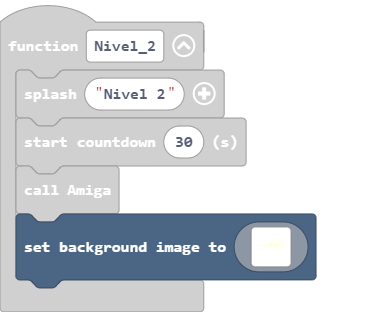
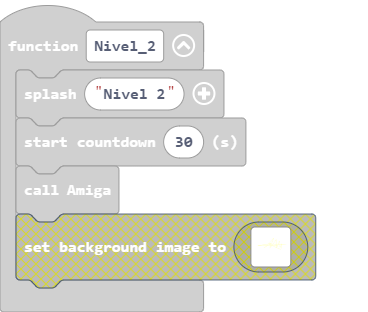
Update main.blocks, main.ts

diff --git a/main.ts b/main.ts
@@ -105,128 +105,6 @@ function Nivel_2 () {
     game.splash("Nivel 2")
     info.startCountdown(30)
     Amiga()
-    scene.setBackgroundImage(img`
-        . . . . . . . . . . . . . . . . . . . . . . . . . . . . . . . . . . . . . . . . . . . . . . . . . . . . . . . . . . . . . . . . . . . . . . . . . . . . . . . . . . . . . . . . . . . . . . . . . . . . . . . . . . . . . . . . . . . . . . . . . . . . . . . . . . . . . . . . . . . . . . . . . . . . . . . . . . . . . . . . 
-        . . . . . . . . . . . . . . . . . . . . . . . . . . . . . . . . . . . . . . . . . . . . . . . . . . . . . . . . . . . . . . . . . . . . . . . . . . . . . . . . . . . . . . . . . . . . . . . . . . . . . . . . . . . . . . . . . . . . . . . . . . . . . . . . . . . . . . . . . . . . . . . . . . . . . . . . . . . . . . . . 
-        . . . . . . . . . . . . . . . . . . . . . . . . . . . . . . . . . . . . . . . . . . . . . . . . . . . . . . . . . . . . . . . . . . . . . . . . . . . . . . . . . . . . . . . . . . . . . . . . . . . . . . . . . . . . . . . . . . . . . . . . . . . . . . . . . . . . . . . . . . . . . . . . . . . . . . . . . . . . . . . . 
-        . . . . . . . . . . . . . . . . . . . . . . . . . . . . . . . . . . . . . . . . . . . . . . . . . . . . . . . . . . . . . . . . . . . . . . . . . . . . . . . . . . . . . . . . . . . . . . . . . . . . . . . . . . . . . . . . . . . . . . . . . . . . . . . . . . . . . . . . . . . . . . . . . . . . . . . . . . . . . . . . 
-        . . . . . . . . . . . . . . . . . . . . . . . . . . . . . . . . . . . . . . . . . . . . . . . . . . . . . . . . . . . . . . . . . . . . . . . . . . . . . . . . . . . . . . . . . . . . . . . . . . . . . . . . . . . . . . . . . . . . . . . . . . . . . . . . . . . . . . . . . . . . . . . . . . . . . . . . . . . . . . . . 
-        . . . . . . . . . . . . . . . . . . . . . . . . . . . . . . . . . . . . . . . . . . . . . . . . . . . . . . . . . . . . . . . . . . . . . . . . . . . . . . . . . . . . . . . . . . . . . . . . . . . . . . . . . . . . . . . . . . . . . . . . . . . . . . . . . . . . . . . . . . . . . . . . . . . . . . . . . . . . . . . . 
-        . . . . . . . . . . . . . . . . . . . . . . . . . . . . . . . . . . . . . . . . . . . . . . . . . . . . . . . . . . . . . . . . . . . . . . . . . . . . . . . . . . . . . . . . . . . . . . . . . . . . . . . . . . . . . . . . . . . . . . . . . . . . . . . . . . . . . . . . . . . . . . . . . . . . . . . . . . . . . . . . 
-        . . . . . . . . . . . . . . . . . . . . . . . . . . . . . . . . . . . . . . . . . . . . . . . . . . . . . . . . . . . . . . . . . . . . . . . . . . . . . . . . . . . . . . . . . . . . . . . . . . . . . . . . . . . . . . . . . . . . . . . . . . . . . . . . . . . . . . . . . . . . . . . . . . . . . . . . . . . . . . . . 
-        . . . . . . . . . . . . . . . . . . . . . . . . . . . . . . . . . . . . . . . . . . . . . . . . . . . . . . . . . . . . . . . . . . . . . . . . . . . . . . . . . . . . . . . . . . . . . . . . . . . . . . . . . . . . . . . . . . . . . . . . . . . . . . . . . . . . . . . . . . . . . . . . . . . . . . . . . . . . . . . . 
-        . . . . . . . . . . . . . . . . . . . . . . . . . . . . . . . . . . . . . . . . . . . . . . . . . . . . . . . . . . . . . . . . . . . . . . . . . . . . . . . . . . . . . . . . . . . . . . . . . . . . . . . . . . . . . . . . . . . . . . . . . . . . . . . . . . . . . . . . . . . . . . . . . . . . . . . . . . . . . . . . 
-        . . . . . . . . . . . . . . . . . . . . . . . . . . . . . . . . . . . . . . . . . . . . . . . . . . . . . . . . . . . . . . . . . . . . . . . . . . . . . . . . . . . . . . . . . . . . . . . . . . . . . . . . . . . . . . . . . . . . . . . . . . . . . . . . . . . . . . . . . . . . . . . . . . . . . . . . . . . . . . . . 
-        . . . . . . . . . . . . . . . . . . . . . . . . . . . . . . . . . . . . . . . . . . . . . . . . . . . . . . . . . . . . . . . . . . . . . . . . . . . . . . . . . . . . . . . . . . . . . . . . . . . . . . . . . . . . . . . . . . . . . . . . . . . . . . . . . . . . . . . . . . . . . . . . . . . . . . . . . . . . . . . . 
-        . . . . . . . . . . . . . . . . . . . . . . . . . . . . . . . . . . . . . . . . . . . . . . . . . . . . . . . . . . . . . . . . . . . . . . . . . . . . . . . . . . . . . . . . . . . . . . . . . . . . . . . . . . . . . . . . . . . . . . . . . . . . . . . . . . . . . . . . . . . . . . . . . . . . . . . . . . . . . . . . 
-        . . . . . . . . . . . . . . . . . . . . . . . . . . . . . . . . . . . . . . . . . . . . . . . . . . . . . . . . . . . . . . . . . . . . . . . . . . . . . . . . . . . . . . . . . . . . . . . . . . . . . . . . . . . . . . . . . . . . . . . . . . . . . . . . . . . . . . . . . . . . . . . . . . . . . . . . . . . . . . . . 
-        . . . . . . . . . . . . . . . . . . . . . . . . . . . . . . . . . . . . . . . . . . . . . . . . . . . . . . . . . . . . . . . . . . . . . . . . . . . . . . . . . . . . . . . . . . . . . . . . . . . . . . . . . . . . . . . . . . . . . . . . . . . . . . . . . . . . . . . . . . . . . . . . . . . . . . . . . . . . . . . . 
-        . . . . . . . . . . . . . . . . . . . . . . . . . . . . . . . . . . . . . . . . . . . . . . . . . . . . . . . . . . . . . . . . . . . . . . . . . . . . . . . . . . . . . . . . . . . . . . 5 . . . . . . . . . . . . . . . . . . . . . . . . . . . . . . . . . . . . . . . . . . . . . . . . . . . . . . . . . . . . . . . . . 
-        . . . . . . . . . . . . . . . . . . . . . . . . . . . . . . . . . . . . . . . . . . . . . . . . . . . . . . . . . . . . . . . . . . . . . . . . . . . . . . . . . . . . . . . . . . . . . 5 5 . . . . . . . . . . . . . . . . . . . . . . . . . . . . . . . . . . . . . . . . . . . . . . . . . . . . . . . . . . . . . . . . . 
-        . . . . . . . . . . . . . . . . . . . . . . . . . . . . . . . . . . . . . . . . . . . . . . . . . . . . . . . . . . . . . . . . . . . . . . . . . . . . . . . . . . . . . . . . . . . . 5 . 5 . . . . . . . . . . . . . . . . . . . . . . . . . . . . . . . . . . . . . . . . . . . . . . . . . . . . . . . . . . . . . . . . . 
-        . . . . . . . . . . . . . . . . . . . . . . . . . . . . . . . . . . . . . . . . . . . . . . . . . . . . . . . . . . . . . . . . . . . . . . . . . . . . . . . . . . . . . . . . . . . 5 . 5 . . . . . . . . . . . . . . . . . . . . . . . . . . . . . . . . . . . . . . . . . . . . . . . . . . . . . . . . . . . . . . . . . . 
-        . . . . . . . . . . . . . . . . . . . . . . . . . . . . . . . . . . . . . . . . . . . . . . . . . . . . . . . . . . . . . . . . . . . . . . . . . . . . . . . . . . . . . . . . . . 5 . . 5 . . . . . . . . . . . . . . . . . . . . . . . . . . . . . . . . . . . . . . . . . . . . . . . . . . . . . . . . . . . . . . . . . . 
-        . . . . . . . . . . . . . . . . . . . . . . . . . . . . . . . . . . . . . . . . . . . . . . . . . . . . . . . . . . . . . . . . . . . . . . . . . . . . . . . . . . . . . . . . . 5 . . 5 . . . . . . . . . . . . . . . . . . . . . . . . . . . . . . . . . . . . . . . . . . . . . . . . . . . . . . . . . . . . . . . . . . . 
-        . . . . . . . . . . . . . . . . . . . . . . . . . . . . . . . . . . . . . . . . . . . . . . . . . . . . . . . . . . . . . . . . . . . . . . . . . . . . . . . . . . . . . . . . 5 . . 5 . . . . . . . . . . . . . . . . . . . . . . . . . . . . . . . . . . . . . . . . . . . . . . . . . . . . . . . . . . . . . . . . . . . . 
-        . . . . . . . . . . . . . . . . . . . . . . . . . . . . . . . . . . . . . . . . . . . . . . . . . . . . . . . . . . . . . . . . . . . . . . . . . . . . . . . . . . . . . . . . 5 . . 5 . . . . . . . . . . . . . . 5 . . . . . . . . . . . . . . . . . . . . . . . . . . . . . . . . . . . . . . . . . . . . . . . . . . . . . 
-        . . . . . . . . . . . . . . . . . . . . . . . . . . . . . . . . . . . . . . . . . . . . . . . . . . . . . . . . . . . . . . . . . . . . . . . . . . . . . . . . . . . . . . . 5 . . 5 . . . . . . . . . . . . . . 5 5 . . . . . . . . . . . . . . . . . . . . . . . . . . . . . . . . . . . . . . . . . . . . . . . . . . . . . 
-        . . . . . . . . . . . . . . . . . . . . . . . . . . . . . . . . . . . . . . . . . . . . . . . . . . . . . . . . . . . . . . . . . . . . . . . . . . . . . . . . . . . . . . 5 . . . 5 . . . . . . . . . . . . . 5 . 5 . . . . . . . . . . . . . . . . . . . . . . . . . . . . . . . . . . . . . . . . . . . . . . . . . . . . . 
-        . . . . . . . . . . . . . . . . . . . . . . . . . . . . . . . . . . . . . . . . . . . . . . . . . . . . . . . . . . . . . . . . . . . . . . . . . . . . . . . . . . . . . 5 . . . . 5 . . . . . . . . . . . . . 5 . 5 . . . . . . . . . . . . . . . . . . . . . . . . . . . . . . . . . . . . . . . . . . . . . . . . . . . . . 
-        . . . . . . . . . . . . . . . . . . . . . . . . . . . . . . . . . . . . . . . . . . . . . . . . . . . . . . . . . . . . . . . . . . . . . . . . . . . . . . . . . . . . . 5 . . . 5 . . . . . . . . . . . . . 5 . . 5 . . . . . . . . . . . . . . . . . . . . . . . . . . . . . . . . . . . . . . . . . . . . . . . . . . . . . 
-        . . . . . . . . . . . . . . . . . . . . . . . . . . . . . . . . . . . . . . . . . . . . . . . . . . . . . . . . . . . . . . . . . . . . . . . . . . . . . . . . . . . . 5 . . . . 5 . . . . . . . . . . . . 5 . . . 5 . . . . . . . . . . . . . . . . . . . . . . . . . . . . . . . . . . . . . . . . . . . . . . . . . . . . . 
-        . . . . . . . . . . . . . . . . . . . . . . . . . . . . . . . . . . . . . . . . . . . . . . . . . . . . . . . . . . . . . . . . . . . . . . . . . . . . . . . . . . . 5 . . . . 5 . . . . . . . . . . . . . 5 . . . 5 . . . . . . . . . . . . . . . . . . . . . . . . . . . . . . . . . . . . . . . . . . . . . . . . . . . . . 
-        . . . . . . . . . . . . . . . . . . . . . . . . . . . . . . . . . . . . . . . . . . . . . . . . . . . . . . . . . . . . . . . . . . . . . . . . . . . . . . . . . . 5 . . . . . 5 . . . . . . . . . . . . 5 . . . . 5 . . . . . . . . . . . . . . . . . . . . . . . . . . . . . . . . . . . . . . . . . . . . . . . . . . . . . 
-        . . . . . . . . . . . . . . . . . . . . . . . . . . . . . . . . . . . . . . . . . . . . . . . . . . . . . . . . . . . . . . . . . . . . . . . . . . . . . . . . . 5 . . . . . . 5 . . . . . . . . . . . 5 . . . . . 5 . . . . . . . . . . . . . . . . . . . . . . . . . . . . . . . . . . . . . . . . . . . . . . . . . . . . . 
-        . . . . . . . . . . . . . . . . . . . . . . . . . . . . . . . . . . . . . . . . . . . . . . . . . . . . . . . . . . . . . . . . . . . . . . . . . . . . . . . . 5 . . . . . . 5 . . . . . . . . . . . . 5 . . . . . 5 . . . . . . . . . . . . . . . . 5 . . . . . . . . . . . . . . . . . . . . . . . . . . . . . . . . . . . . 
-        . . . . . . . . . . . . . . . . . . . . . . . . . . . . . . . . . . . . . . . . . . . . . . . . . . . . . . . . . . . . . . . . . . . . . . . . . . . . . . . 5 . . . . . . . 5 . . . . . . . . . . . 5 . . . . . . 5 . . . . . . . . . . . . . . . 5 5 . . . . . . . . . . . . . . . . . . . . . . . . . . . . . . . . . . . . 
-        . . . . . . . . . . . . . . . . . . . . . . . . . . . . . . . . . . . . . . . . . . . . . . . . . . . . . . . . . . . . . . . . . . . . . . . . . . . . . . 5 . . . . . . . 5 . . . . . . . . . . . 5 . . . . . . . 5 . . . . . . . . . . . . . . 5 . 5 . . . . . . . . . . . . . . . . . . . . . . . . . . . . . . . . . . . . 
-        . . . . . . . . . . . . . . . . . . . . . . . . . . . . . . . . . . . . . . . . . . . . . . . . . . . . . . . . . . . . . . . . . . . . . . . . . . . . . 5 . . . . . . . . 5 . . . . . . . . . . 5 . . . . . . . . 5 . . . . . . . . . . . . . . 5 . 5 . . . . . . . . . . . . . . . . . . . . . . . . . . . . . . . . . . . . 
-        . . . . . . . . . . . . . . . . . . . . . . . . . . . . . . . . . . . . . . . . . . . . . . . . . . . . . . . . . . . . . . . . . . . . . . . . . . . . 5 . . . . . . . . 5 . . . . . . . . . . . 5 . . . . . . . . 5 . . . . . . . . . . . . . 5 . . 5 . . . . . . . . . . . . . . . . . . . . . . . . . . . . . . . . . . . . 
-        . . . . . . . . . . . . . . . . . . . . . . . . . . . . . . . . . . . . . . . . . . . . . . . . . . . . . . . . . . . . . . . . . . . . . . . . . . . 5 . . . . . . . . . 5 . . . . . . . . . . 5 . . . . . . . . . 5 . . . . . . . . . . . . . 5 . . 5 . . . . . . . . . . . . . . . . . . . . . . . . . . . . . . . . . . . . 
-        . . . . . . . . . . . . . . . . . . . . . . . . . . . . . . . . . . . . . . . . . . . . . . . . . . . . . . . . . . . . . . . . . . . . . . . . . . 5 . . . . . . . . . 5 . . . . . . . . . . 5 . . . . . . . . . . 5 . . . . . . . . . . . . 5 . . . 5 . . . . . . . . . . . . . . . . . . . . . . . . . . . . . . . . . . . . 
-        . . . . . . . . . . . . . . . . . . . . . . . . . . . . . . . . . . . . . . . . . . . . . . . . . . . . . . . . . . . . . . . . . . . . . . . . . 5 . . . . . . . . . . 5 . . . . . . . . . . 5 . . . . . . . . . . 5 . . . . . . . . . . . . 5 . . . 5 . . . . . . . . . . . . . . . . . . . . . . . . . . . . . . . . . . . . 
-        . . . . . . . . . . . . . . . . . . . . . . . . . . . . . . . . . . . . . . . . . . . . . . . . . . . . . . . . . . . . . . . . . . . . . . . . 5 . . . . . . . . . . . 5 . . . . . . . . . 5 . . . . . . . . . . . 5 . . . . . . . . . . . . 5 . . . . 5 . . . . . . . . . . . . . . . . . . . . . . . . . . . . . . . . . . . 
-        . . . . . . . . . . . . . . . . . . . . . . . . . . . . . . . . . . . . . . . . . . . . . . . . . . . . . . . . . . . . . . . . . . . . . . . 5 . . . . . . 5 5 . . . 5 . . . . . . . . . 5 . . . . . . . . . . . . 5 . . . . . . . . . . . 5 . . . . . 5 . . . . . . . . . . . . . . . . . . . . . . . . . . . . . . . . . . . 
-        . . . . . . . . . . . . . . . . . . . . . . . . . . . . . . . . . . . . . . . . . . . . . . . . . . . . . . . . . . . . . . . . . . . . . . 5 . . . . 5 5 5 5 . . . . 5 . . . . . . . . 5 . . . . . . . . . . . . . 5 . . . . . . . . . . . 5 . . . . . 5 . . . . . . . . . . . . . . . . . . . . . . . . . . . . . . . . . . . 
-        . . . . . . . . . . . . . . . . . . . . . . . . . . . . . . . . . . . . . . . . . . . . . . . . . . . . . . . . . . . . . . . . . . . . . 5 . . 5 5 5 . . 5 . . . . 5 . . . . . . . . . 5 . . . . . . . . . . . . . 5 . . . . . . . . . . 5 . . . . . . 5 . . . . . . . . . . . . . . . . . . . . . . . . . . . . . . . . . . . 
-        . . . . . . . . . . . . . . . . . . . . . . . . . . . . . . . . . . . . . . . . . . . . . . . . . . . . . . . . . . . . . . . . . . . . 5 5 5 5 . . . . 5 . . . . . 5 . . . . . . . . 5 . . . . . . . . . . . . . . 5 . . . . . . . . . . 5 . . . . . . 5 . . . . . . . 5 . . . . . . . . . . . . . . . . . . . . . . . . . . . 
-        . . . . . . . . . . . . . . . . . . . . . . . . . . . . . . . . . . . . . . . . . . . . . . . . . . . . . . . . . . . . . . . . . 5 5 5 5 . . . . . . 5 . . . . . 5 . . . . . . . . 5 . . . . . . . . . . . . . . . 5 . . . . . . . . . . 5 . . . . . . 5 . . . . . . . 5 . . . . . . . . . . . . . . . . . . . . . . . . . . . 
-        . . . . . . . . . . . . . . . . . . . . . . . . . . . . . . . . . . . . . . . . . . . . . . . . . . . . . . . . . . . 5 5 5 5 5 5 . 5 . . . 5 5 5 5 5 5 5 5 5 5 5 5 5 5 5 5 5 5 5 5 5 5 5 5 5 5 5 5 5 . . . . . . . 5 . . . . . . . . . 5 . . . . . . . 5 . . . . . . 5 5 . . . . . . . . . . . . . . . . . . . . . . . . . . . 
-        . . . . . . . . . . . . . . . . . . . . . . . . . . . . . . . . . . . . . . . . . . . . . . . . . . . . . 5 5 5 5 5 5 . . . . . . 5 . . . . . . 5 5 . . . . . . . 5 . . . . . . . 5 . . . . . . . . . 5 5 5 5 5 5 5 5 5 5 5 5 5 5 5 5 5 5 5 5 5 5 5 5 5 5 5 5 5 5 . . 5 5 . . . . . . . . . . . . . . . . . . . . . . . . . . . 
-        . . . . . . . . . . . . . . . . . . . . . . . . . . . . . . . . . . . . . . . . . . . . . . . 5 5 5 5 5 5 . . . . . . . . . . . 5 . . . . . 5 5 . . 5 5 . . . . 5 . . . . . . . 5 . . . . . . . . . . . . . . . . . 5 . . . . . . . . . 5 . . . . . . . 5 . . . . 5 5 5 5 5 5 5 5 5 5 5 5 5 5 5 . . . . . . . . . . . . . . . . 
-        . . . . . . . . . . . . . . . . . . . . . . . . . . . . . . . . . . . . . . . . . 5 5 5 5 5 5 . . . . . . . . . . . . . . . . 5 . . . . 5 5 . . . . . . 5 5 5 . 5 . . . . . . . 5 . . . . . . . . . . . . . . . . . 5 . . . . . . . . 5 . . . . . . . . 5 . . . . . 5 . 5 . . . . . . . . . . . 5 5 5 5 5 5 5 5 . . . . . . . . 
-        . . . . . . . . . . . . . . . . . . . . . . . . . . . . . . . . . . . 5 5 5 5 5 5 . . . . . . . . . . . . . . . . . . . . . 5 . . . . 5 . . . . . . . . . . . 5 5 . . . . . . 5 . . . . . . . . . . . . . . . . . . . 5 . . . . . . . 5 . . . . . . . . 5 . . . . . 5 . 5 . . . . . . . . . . . . . . . . . . . 5 5 5 5 5 . . . 
-        . . . . . . . . . . . . . . . . . . . . . . . . . . . . . 5 5 5 5 5 5 . . . . . . . . . . . . . . . . . . . . . . . . . . 5 . . . 5 5 . . . . . . . . . . . . 5 . 5 5 . . . 5 . . . . . . . . . . . . . . . . . . . . 5 . . . . . . 5 . . . . . . . . . 5 . . . . . 5 . 5 . . . . . . . . . . . . . . . . . . . . . . . . . . . 
-        . . . . . . . . . . . . . . . . . . . . . . . 5 5 5 5 5 5 . . . . . . . . . . . . . . . . . . . . . . . . . . . . . . . 5 . . . 5 . . . . . . . . . . . . . . 5 . . . 5 5 5 . . . . . . . . . . . . . . . . . . . . . 5 . . . . . . 5 . . . . . . . . . 5 . . . . . 5 . 5 . . . . . . . . . . . . . . . . . . . . . . . . . . . 
-        . . . . . . . . . . . . . . . . . 5 5 5 5 5 5 . . . . . . . . . . . . . . . . . . . . . . . . . . . . . . . . . . . . 5 . . . 5 . . . . . . . . . . . . . . 5 . . . . . . 5 5 . . . . . . . . . . . . . . . . . . . . 5 . . . . . . 5 . . . . . . . . . 5 . . . . 5 . . 5 . . . . . . . . . . . . . . . . . . . . . . . . . . . 
-        . . . . . . . . . . . . . . 5 5 5 5 5 5 5 5 5 5 5 5 5 5 5 5 5 5 5 5 5 5 5 5 5 5 5 5 5 5 5 5 5 5 5 5 5 5 5 5 5 5 5 5 5 5 5 5 5 5 5 5 5 5 5 5 5 5 5 5 5 5 5 5 5 5 5 5 5 5 5 5 5 5 5 5 5 5 5 5 5 5 5 5 5 5 5 5 5 5 5 5 5 5 5 5 5 5 5 5 5 5 . . . . . . . . 5 . . . . 5 . . 5 . . . . . . . . . . . . . . . . . . . . . . . . . . . 
-        . . . . . . . . . . . . . . . . . . . . . . . . . . . . . . . . . . . . . . . . . . . . . . . . . . . . . . . . . 5 . . 5 . . . . . . . . . . . . . . . . . 5 . . . . 5 . . . . . 5 5 . . . . . . . . . . . . . . . . 5 . . . . . 5 . . . . . . . . . . 5 . . . 5 . . . 5 . . . . . . . . . . . . . . . . . . . . . . . . . . . 
-        . . . . . . . . . . . . . . . . . . . . . . . . . . . . . . . . . . . . . . . . . . . . . . . . . . . . . . . . 5 . 5 5 . . . . . . . . . . . . . . . . . 5 . . . . . 5 . . . . . . . 5 5 . . . . . . . . . . . . . . 5 . . . . . 5 . . . . . . . . . . 5 . . . 5 . . . 5 . . . . . . . . . . . . . . . . . . . . . . . . . . . 
-        . . . . . . . . . . . . . . . . . . . . . . . . . . . . . . . . . . . . . . . . . . . . . . . . . . . . . . . 5 . 5 . . . . . . . . . . . . . . . . . . . 5 . . . . 5 . . . . . . . . . . 5 5 . . . . . . . . . . . . 5 . . . . 5 . . . . . . . . . . . 5 . . 5 . . . . 5 . . . . . . . . . . . . . . . . . . . . . . . . . . . 
-        . . . . . . . . . . . . . . . . . . . . . . . . . . . . . . . . . . . . . . . . . . . . . . . . . . . . . . 5 . 5 . . . . . . . . . . . . . . . . . . . . 5 . . . 5 . . . . . . . . . . . . . 5 5 . . . . . . . . . . 5 . . . . 5 . . . . . . . . . . . 5 . . 5 . . . . 5 . . . . . . . . . . . . . . . . . . . . . . . . . . . 
-        . . . . . . . . . . . . . . . . . . . . . . . . . . . . . . . . . . . . . . . . . . . . . . . . . . . . . 5 5 5 . . . . . . . . . . . . . . . . . . . . 5 . . . 5 . . . . . . . . . . . . . . . . 5 5 . . . . . . . . 5 . . . 5 . . . . . . . . . . . . 5 . . 5 . . . . 5 . . . . . . . . . . . . . . . . . . . . . . . . . . . 
-        . . . . . . . . . . . . . . . . . . . . . . . . . . . . . . . . . . . . . . . . . . . . . . . . . . . . 5 5 . . . . . . . . . . . . . . . . . . . . . . 5 . . 5 . . . . . . . . . . . . . . . . . . . 5 5 . . . . . . 5 . . 5 . . . . . . . . . . . . . 5 . 5 . . . . . 5 . . . . . . . . . . . . . . . . . . . . . . . . . . . 
-        . . . . . . . . . . . . . . . . . . . . . . . . . . . . . . . . . . . . . . . . . . . . . . . . . . . 5 5 . . . . . . . . . . . . . . . . . . . . . . 5 . . 5 . . . . . . . . . . . . . . . . . . . . . . 5 5 . . . . 5 . . 5 . . . . . . . . . . . . . . 5 5 . . . . . 5 . . . . . . . . . . . . . . . . . . . . . . . . . . . 
-        . . . . . . . . . . . . . . . . . . . . . . . . . . . . . . . . . . . . . . . . . . . . . . . . . 5 5 . . . . . . . . . . . . . . . . . . . . . . . . 5 . 5 . . . . . . . . . . . . . . . . . . . . . . . . . 5 5 . . 5 . 5 . . . . . . . . . . . . . . . 5 . . . . . . 5 . . . . . . . . . . . . . . . . . . . . . . . . . . . 
-        . . . . . . . . . . . . . . . . . . . . . . . . . . . . . . . . . . . . . . . . . . . . . . . . 5 5 . . . . . . . . . . . . . . . . . . . . . . . . . 5 5 . . . . . . . . . . . . . . . . . . . . . . . . . . . . 5 5 5 . 5 . . . . . . . . . . . . . . . 5 . . . . . 5 . . . . . . . . . . . . . . . . . . . . . . . . . . . . 
-        . . . . . . . . . . . . . . . . . . . . . . . . . . . . . . . . . . . . . . . . . . . . . . . 5 5 . . . . . . . . . . . . . . . . . . . . . . . . . 5 5 . . . . . . . . . . . . . . . . . . . . . . . . . . . . . . . 5 5 . . . . . . . . . . . . . . . . . . . . . . 5 . . . . . . . . . . . . . . . . . . . . . . . . . . . . 
-        . . . . . . . . . . . . . . . . . . . . . . . . . . . . . . . . . . . . . . . . . . . . . . 5 . . . . . . . . . . . . . . . . . . . . . . . . . . . 5 . . . . . . . . . . . . . . . . . . . . . . . . . . . . . . . . . . 5 5 5 . . . . . . . . . . . . . . . . . . . 5 . . . . . . . . . . . . . . . . . . . . . . . . . . . . 
-        . . . . . . . . . . . . . . . . . . . . . . . . . . . . . . . . . . . . . . . . . . . . . . . . . . . . . . . . . . . . . . . . . . . . . . . . . 5 . . . . . . . . . . . . . . . . . . . . . . . . . . . . . . . . . . . . . . 5 5 . . . . . . . . . . . . . . . . . 5 . . . . . . . . . . . . . . . . . . . . . . . . . . . . 
-        . . . . . . . . . . . . . . . . . . . . . . . . . . . . . . . . . . . . . . . . . . . . . . . . . . . . . . . . . . . . . . . . . . . . . . . . . . . . . . . . . . . . . . . . . . . . . . . . . . . . . . . . . . . . . . . . . . 5 5 5 . . . . . . . . . . . . . 5 . . . . . . . . . . . . . . . . . . . . . . . . . . . . . 
-        . . . . . . . . . . . . . . . . . . . . . . . . . . . . . . . . . . . . . . . . . . . . . . . . . . . . . . . . . . . . . . . . . . . . . . . . . . . . . . . . . . . . . . . . . . . . . . . . . . . . . . . . . . . . . . . . . . . . . 5 5 5 . . . . . . . . . . 5 . . . . . . . . . . . . . . . . . . . . . . . . . . . . . 
-        . . . . . . . . . . . . . . . . . . . . . . . . . . . . . . . . . . . . . . . . . . . . . . . . . . . . . . . . . . . . . . . . . . . . . . . . . . . . . . . . . . . . . . . . . . . . . . . . . . . . . . . . . . . . . . . . . . . . . . . . 5 5 . . . . . . . . 5 . . . . . . . . . . . . . . . . . . . . . . . . . . . . . 
-        . . . . . . . . . . . . . . . . . . . . . . . . . . . . . . . . . . . . . . . . . . . . . . . . . . . . . . . . . . . . . . . . . . . . . . . . . . . . . . . . . . . . . . . . . . . . . . . . . . . . . . . . . . . . . . . . . . . . . . . . . . 5 5 . . . . . . 5 . . . . . . . . . . . . . . . . . . . . . . . . . . . . . 
-        . . . . . . . . . . . . . . . . . . . . . . . . . . . . . . . . . . . . . . . . . . . . . . . . . . . . . . . . . . . . . . . . . . . . . . . . . . . . . . . . . . . . . . . . . . . . . . . . . . . . . . . . . . . . . . . . . . . . . . . . . . . . 5 5 . . . 5 . . . . . . . . . . . . . . . . . . . . . . . . . . . . . . 
-        . . . . . . . . . . . . . . . . . . . . . . . . . . . . . . . . . . . . . . . . . . . . . . . . . . . . . . . . . . . . . . . . . . . . . . . . . . . . . . . . . . . . . . . . . . . . . . . . . . . . . . . . . . . . . . . . . . . . . . . . . . . . . . 5 5 5 . . . . . . . . . . . . . . . . . . . . . . . . . . . . . . . 
-        . . . . . . . . . . . . . . . . . . . . . . . . . . . . . . . . . . . . . . . . . . . . . . . . . . . . . . . . . . . . . . . . . . . . . . . . . . . . . . . . . . . . . . . . . . . . . . . . . . . . . . . . . . . . . . . . . . . . . . . . . . . . . . . . . . . . . . . . . . . . . . . . . . . . . . . . . . . . . . . . 
-        . . . . . . . . . . . . . . . . . . . . . . . . . . . . . . . . . . . . . . . . . . . . . . . . . . . . . . . . . . . . . . . . . . . . . . . . . . . . . . . . . . . . . . . . . . . . . . . . . . . . . . . . . . . . . . . . . . . . . . . . . . . . . . . . . . . . . . . . . . . . . . . . . . . . . . . . . . . . . . . . 
-        . . . . . . . . . . . . . . . . . . . . . . . . . . . . . . . . . . . . . . . . . . . . . . . . . . . . . . . . . . . . . . . . . . . . . . . . . . . . . . . . . . . . . . . . . . . . . . . . . . . . . . . . . . . . . . . . . . . . . . . . . . . . . . . . . . . . . . . . . . . . . . . . . . . . . . . . . . . . . . . . 
-        . . . . . . . . . . . . . . . . . . . . . . . . . . . . . . . . . . . . . . . . . . . . . . . . . . . . . . . . . . . . . . . . . . . . . . . . . . . . . . . . . . . . . . . . . . . . . . . . . . . . . . . . . . . . . . . . . . . . . . . . . . . . . . . . . . . . . . . . . . . . . . . . . . . . . . . . . . . . . . . . 
-        . . . . . . . . . . . . . . . . . . . . . . . . . . . . . . . . . . . . . . . . . . . . . . . . . . . . . . . . . . . . . . . . . . . . . . . . . . . . . . . . . . . . . . . . . . . . . . . . . . . . . . . . . . . . . . . . . . . . . . . . . . . . . . . . . . . . . . . . . . . . . . . . . . . . . . . . . . . . . . . . 
-        . . . . . . . . . . . . . . . . . . . . . . . . . . . . . . . . . . . . . . . . . . . . . . . . . . . . . . . . . . . . . . . . . . . . . . . . . . . . . . . . . . . . . . . . . . . . . . . . . . . . . . . . . . . . . . . . . . . . . . . . . . . . . . . . . . . . . . . . . . . . . . . . . . . . . . . . . . . . . . . . 
-        . . . . . . . . . . . . . . . . . . . . . . . . . . . . . . . . . . . . . . . . . . . . . . . . . . . . . . . . . . . . . . . . . . . . . . . . . . . . . . . . . . . . . . . . . . . . . . . . . . . . . . . . . . . . . . . . . . . . . . . . . . . . . . . . . . . . . . . . . . . . . . . . . . . . . . . . . . . . . . . . 
-        . . . . . . . . . . . . . . . . . . . . . . . . . . . . . . . . . . . . . . . . . . . . . . . . . . . . . . . . . . . . . . . . . . . . . . . . . . . . . . . . . . . . . . . . . . . . . . . . . . . . . . . . . . . . . . . . . . . . . . . . . . . . . . . . . . . . . . . . . . . . . . . . . . . . . . . . . . . . . . . . 
-        . . . . . . . . . . . . . . . . . . . . . . . . . . . . . . . . . . . . . . . . . . . . . . . . . . . . . . . . . . . . . . . . . . . . . . . . . . . . . . . . . . . . . . . . . . . . . . . . . . . . . . . . . . . . . . . . . . . . . . . . . . . . . . . . . . . . . . . . . . . . . . . . . . . . . . . . . . . . . . . . 
-        . . . . . . . . . . . . . . . . . . . . . . . . . . . . . . . . . . . . . . . . . . . . . . . . . . . . . . . . . . . . . . . . . . . . . . . . . . . . . . . . . . . . . . . . . . . . . . . . . . . . . . . . . . . . . . . . . . . . . . . . . . . . . . . . . . . . . . . . . . . . . . . . . . . . . . . . . . . . . . . . 
-        . . . . . . . . . . . . . . . . . . . . . . . . . . . . . . . . . . . . . . . . . . . . . . . . . . . . . . . . . . . . . . . . . . . . . . . . . . . . . . . . . . . . . . . . . . . . . . . . . . . . . . . . . . . . . . . . . . . . . . . . . . . . . . . . . . . . . . . . . . . . . . . . . . . . . . . . . . . . . . . . 
-        . . . . . . . . . . . . . . . . . . . . . . . . . . . . . . . . . . . . . . . . . . . . . . . . . . . . . . . . . . . . . . . . . . . . . . . . . . . . . . . . . . . . . . . . . . . . . . . . . . . . . . . . . . . . . . . . . . . . . . . . . . . . . . . . . . . . . . . . . . . . . . . . . . . . . . . . . . . . . . . . 
-        . . . . . . . . . . . . . . . . . . . . . . . . . . . . . . . . . . . . . . . . . . . . . . . . . . . . . . . . . . . . . . . . . . . . . . . . . . . . . . . . . . . . . . . . . . . . . . . . . . . . . . . . . . . . . . . . . . . . . . . . . . . . . . . . . . . . . . . . . . . . . . . . . . . . . . . . . . . . . . . . 
-        . . . . . . . . . . . . . . . . . . . . . . . . . . . . . . . . . . . . . . . . . . . . . . . . . . . . . . . . . . . . . . . . . . . . . . . . . . . . . . . . . . . . . . . . . . . . . . . . . . . . . . . . . . . . . . . . . . . . . . . . . . . . . . . . . . . . . . . . . . . . . . . . . . . . . . . . . . . . . . . . 
-        . . . . . . . . . . . . . . . . . . . . . . . . . . . . . . . . . . . . . . . . . . . . . . . . . . . . . . . . . . . . . . . . . . . . . . . . . . . . . . . . . . . . . . . . . . . . . . . . . . . . . . . . . . . . . . . . . . . . . . . . . . . . . . . . . . . . . . . . . . . . . . . . . . . . . . . . . . . . . . . . 
-        . . . . . . . . . . . . . . . . . . . . . . . . . . . . . . . . . . . . . . . . . . . . . . . . . . . . . . . . . . . . . . . . . . . . . . . . . . . . . . . . . . . . . . . . . . . . . . . . . . . . . . . . . . . . . . . . . . . . . . . . . . . . . . . . . . . . . . . . . . . . . . . . . . . . . . . . . . . . . . . . 
-        . . . . . . . . . . . . . . . . . . . . . . . . . . . . . . . . . . . . . . . . . . . . . . . . . . . . . . . . . . . . . . . . . . . . . . . . . . . . . . . . . . . . . . . . . . . . . . . . . . . . . . . . . . . . . . . . . . . . . . . . . . . . . . . . . . . . . . . . . . . . . . . . . . . . . . . . . . . . . . . . 
-        . . . . . . . . . . . . . . . . . . . . . . . . . . . . . . . . . . . . . . . . . . . . . . . . . . . . . . . . . . . . . . . . . . . . . . . . . . . . . . . . . . . . . . . . . . . . . . . . . . . . . . . . . . . . . . . . . . . . . . . . . . . . . . . . . . . . . . . . . . . . . . . . . . . . . . . . . . . . . . . . 
-        . . . . . . . . . . . . . . . . . . . . . . . . . . . . . . . . . . . . . . . . . . . . . . . . . . . . . . . . . . . . . . . . . . . . . . . . . . . . . . . . . . . . . . . . . . . . . . . . . . . . . . . . . . . . . . . . . . . . . . . . . . . . . . . . . . . . . . . . . . . . . . . . . . . . . . . . . . . . . . . . 
-        . . . . . . . . . . . . . . . . . . . . . . . . . . . . . . . . . . . . . . . . . . . . . . . . . . . . . . . . . . . . . . . . . . . . . . . . . . . . . . . . . . . . . . . . . . . . . . . . . . . . . . . . . . . . . . . . . . . . . . . . . . . . . . . . . . . . . . . . . . . . . . . . . . . . . . . . . . . . . . . . 
-        . . . . . . . . . . . . . . . . . . . . . . . . . . . . . . . . . . . . . . . . . . . . . . . . . . . . . . . . . . . . . . . . . . . . . . . . . . . . . . . . . . . . . . . . . . . . . . . . . . . . . . . . . . . . . . . . . . . . . . . . . . . . . . . . . . . . . . . . . . . . . . . . . . . . . . . . . . . . . . . . 
-        . . . . . . . . . . . . . . . . . . . . . . . . . . . . . . . . . . . . . . . . . . . . . . . . . . . . . . . . . . . . . . . . . . . . . . . . . . . . . . . . . . . . . . . . . . . . . . . . . . . . . . . . . . . . . . . . . . . . . . . . . . . . . . . . . . . . . . . . . . . . . . . . . . . . . . . . . . . . . . . . 
-        . . . . . . . . . . . . . . . . . . . . . . . . . . . . . . . . . . . . . . . . . . . . . . . . . . . . . . . . . . . . . . . . . . . . . . . . . . . . . . . . . . . . . . . . . . . . . . . . . . . . . . . . . . . . . . . . . . . . . . . . . . . . . . . . . . . . . . . . . . . . . . . . . . . . . . . . . . . . . . . . 
-        . . . . . . . . . . . . . . . . . . . . . . . . . . . . . . . . . . . . . . . . . . . . . . . . . . . . . . . . . . . . . . . . . . . . . . . . . . . . . . . . . . . . . . . . . . . . . . . . . . . . . . . . . . . . . . . . . . . . . . . . . . . . . . . . . . . . . . . . . . . . . . . . . . . . . . . . . . . . . . . . 
-        . . . . . . . . . . . . . . . . . . . . . . . . . . . . . . . . . . . . . . . . . . . . . . . . . . . . . . . . . . . . . . . . . . . . . . . . . . . . . . . . . . . . . . . . . . . . . . . . . . . . . . . . . . . . . . . . . . . . . . . . . . . . . . . . . . . . . . . . . . . . . . . . . . . . . . . . . . . . . . . . 
-        . . . . . . . . . . . . . . . . . . . . . . . . . . . . . . . . . . . . . . . . . . . . . . . . . . . . . . . . . . . . . . . . . . . . . . . . . . . . . . . . . . . . . . . . . . . . . . . . . . . . . . . . . . . . . . . . . . . . . . . . . . . . . . . . . . . . . . . . . . . . . . . . . . . . . . . . . . . . . . . . 
-        . . . . . . . . . . . . . . . . . . . . . . . . . . . . . . . . . . . . . . . . . . . . . . . . . . . . . . . . . . . . . . . . . . . . . . . . . . . . . . . . . . . . . . . . . . . . . . . . . . . . . . . . . . . . . . . . . . . . . . . . . . . . . . . . . . . . . . . . . . . . . . . . . . . . . . . . . . . . . . . . 
-        . . . . . . . . . . . . . . . . . . . . . . . . . . . . . . . . . . . . . . . . . . . . . . . . . . . . . . . . . . . . . . . . . . . . . . . . . . . . . . . . . . . . . . . . . . . . . . . . . . . . . . . . . . . . . . . . . . . . . . . . . . . . . . . . . . . . . . . . . . . . . . . . . . . . . . . . . . . . . . . . 
-        . . . . . . . . . . . . . . . . . . . . . . . . . . . . . . . . . . . . . . . . . . . . . . . . . . . . . . . . . . . . . . . . . . . . . . . . . . . . . . . . . . . . . . . . . . . . . . . . . . . . . . . . . . . . . . . . . . . . . . . . . . . . . . . . . . . . . . . . . . . . . . . . . . . . . . . . . . . . . . . . 
-        . . . . . . . . . . . . . . . . . . . . . . . . . . . . . . . . . . . . . . . . . . . . . . . . . . . . . . . . . . . . . . . . . . . . . . . . . . . . . . . . . . . . . . . . . . . . . . . . . . . . . . . . . . . . . . . . . . . . . . . . . . . . . . . . . . . . . . . . . . . . . . . . . . . . . . . . . . . . . . . . 
-        . . . . . . . . . . . . . . . . . . . . . . . . . . . . . . . . . . . . . . . . . . . . . . . . . . . . . . . . . . . . . . . . . . . . . . . . . . . . . . . . . . . . . . . . . . . . . . . . . . . . . . . . . . . . . . . . . . . . . . . . . . . . . . . . . . . . . . . . . . . . . . . . . . . . . . . . . . . . . . . . 
-        . . . . . . . . . . . . . . . . . . . . . . . . . . . . . . . . . . . . . . . . . . . . . . . . . . . . . . . . . . . . . . . . . . . . . . . . . . . . . . . . . . . . . . . . . . . . . . . . . . . . . . . . . . . . . . . . . . . . . . . . . . . . . . . . . . . . . . . . . . . . . . . . . . . . . . . . . . . . . . . . 
-        . . . . . . . . . . . . . . . . . . . . . . . . . . . . . . . . . . . . . . . . . . . . . . . . . . . . . . . . . . . . . . . . . . . . . . . . . . . . . . . . . . . . . . . . . . . . . . . . . . . . . . . . . . . . . . . . . . . . . . . . . . . . . . . . . . . . . . . . . . . . . . . . . . . . . . . . . . . . . . . . 
-        . . . . . . . . . . . . . . . . . . . . . . . . . . . . . . . . . . . . . . . . . . . . . . . . . . . . . . . . . . . . . . . . . . . . . . . . . . . . . . . . . . . . . . . . . . . . . . . . . . . . . . . . . . . . . . . . . . . . . . . . . . . . . . . . . . . . . . . . . . . . . . . . . . . . . . . . . . . . . . . . 
-        . . . . . . . . . . . . . . . . . . . . . . . . . . . . . . . . . . . . . . . . . . . . . . . . . . . . . . . . . . . . . . . . . . . . . . . . . . . . . . . . . . . . . . . . . . . . . . . . . . . . . . . . . . . . . . . . . . . . . . . . . . . . . . . . . . . . . . . . . . . . . . . . . . . . . . . . . . . . . . . . 
-        . . . . . . . . . . . . . . . . . . . . . . . . . . . . . . . . . . . . . . . . . . . . . . . . . . . . . . . . . . . . . . . . . . . . . . . . . . . . . . . . . . . . . . . . . . . . . . . . . . . . . . . . . . . . . . . . . . . . . . . . . . . . . . . . . . . . . . . . . . . . . . . . . . . . . . . . . . . . . . . . 
-        . . . . . . . . . . . . . . . . . . . . . . . . . . . . . . . . . . . . . . . . . . . . . . . . . . . . . . . . . . . . . . . . . . . . . . . . . . . . . . . . . . . . . . . . . . . . . . . . . . . . . . . . . . . . . . . . . . . . . . . . . . . . . . . . . . . . . . . . . . . . . . . . . . . . . . . . . . . . . . . . 
-        . . . . . . . . . . . . . . . . . . . . . . . . . . . . . . . . . . . . . . . . . . . . . . . . . . . . . . . . . . . . . . . . . . . . . . . . . . . . . . . . . . . . . . . . . . . . . . . . . . . . . . . . . . . . . . . . . . . . . . . . . . . . . . . . . . . . . . . . . . . . . . . . . . . . . . . . . . . . . . . . 
-        . . . . . . . . . . . . . . . . . . . . . . . . . . . . . . . . . . . . . . . . . . . . . . . . . . . . . . . . . . . . . . . . . . . . . . . . . . . . . . . . . . . . . . . . . . . . . . . . . . . . . . . . . . . . . . . . . . . . . . . . . . . . . . . . . . . . . . . . . . . . . . . . . . . . . . . . . . . . . . . . 
-        . . . . . . . . . . . . . . . . . . . . . . . . . . . . . . . . . . . . . . . . . . . . . . . . . . . . . . . . . . . . . . . . . . . . . . . . . . . . . . . . . . . . . . . . . . . . . . . . . . . . . . . . . . . . . . . . . . . . . . . . . . . . . . . . . . . . . . . . . . . . . . . . . . . . . . . . . . . . . . . . 
-        . . . . . . . . . . . . . . . . . . . . . . . . . . . . . . . . . . . . . . . . . . . . . . . . . . . . . . . . . . . . . . . . . . . . . . . . . . . . . . . . . . . . . . . . . . . . . . . . . . . . . . . . . . . . . . . . . . . . . . . . . . . . . . . . . . . . . . . . . . . . . . . . . . . . . . . . . . . . . . . . 
-        . . . . . . . . . . . . . . . . . . . . . . . . . . . . . . . . . . . . . . . . . . . . . . . . . . . . . . . . . . . . . . . . . . . . . . . . . . . . . . . . . . . . . . . . . . . . . . . . . . . . . . . . . . . . . . . . . . . . . . . . . . . . . . . . . . . . . . . . . . . . . . . . . . . . . . . . . . . . . . . . 
-        . . . . . . . . . . . . . . . . . . . . . . . . . . . . . . . . . . . . . . . . . . . . . . . . . . . . . . . . . . . . . . . . . . . . . . . . . . . . . . . . . . . . . . . . . . . . . . . . . . . . . . . . . . . . . . . . . . . . . . . . . . . . . . . . . . . . . . . . . . . . . . . . . . . . . . . . . . . . . . . . 
-        . . . . . . . . . . . . . . . . . . . . . . . . . . . . . . . . . . . . . . . . . . . . . . . . . . . . . . . . . . . . . . . . . . . . . . . . . . . . . . . . . . . . . . . . . . . . . . . . . . . . . . . . . . . . . . . . . . . . . . . . . . . . . . . . . . . . . . . . . . . . . . . . . . . . . . . . . . . . . . . . 
-        . . . . . . . . . . . . . . . . . . . . . . . . . . . . . . . . . . . . . . . . . . . . . . . . . . . . . . . . . . . . . . . . . . . . . . . . . . . . . . . . . . . . . . . . . . . . . . . . . . . . . . . . . . . . . . . . . . . . . . . . . . . . . . . . . . . . . . . . . . . . . . . . . . . . . . . . . . . . . . . . 
-        . . . . . . . . . . . . . . . . . . . . . . . . . . . . . . . . . . . . . . . . . . . . . . . . . . . . . . . . . . . . . . . . . . . . . . . . . . . . . . . . . . . . . . . . . . . . . . . . . . . . . . . . . . . . . . . . . . . . . . . . . . . . . . . . . . . . . . . . . . . . . . . . . . . . . . . . . . . . . . . . 
-        . . . . . . . . . . . . . . . . . . . . . . . . . . . . . . . . . . . . . . . . . . . . . . . . . . . . . . . . . . . . . . . . . . . . . . . . . . . . . . . . . . . . . . . . . . . . . . . . . . . . . . . . . . . . . . . . . . . . . . . . . . . . . . . . . . . . . . . . . . . . . . . . . . . . . . . . . . . . . . . . 
-        . . . . . . . . . . . . . . . . . . . . . . . . . . . . . . . . . . . . . . . . . . . . . . . . . . . . . . . . . . . . . . . . . . . . . . . . . . . . . . . . . . . . . . . . . . . . . . . . . . . . . . . . . . . . . . . . . . . . . . . . . . . . . . . . . . . . . . . . . . . . . . . . . . . . . . . . . . . . . . . . 
-        `)
 }
 sprites.onOverlap(SpriteKind.Projectile, SpriteKind.Enemy, function (sprite, otherSprite) {
     robot.destroy()
